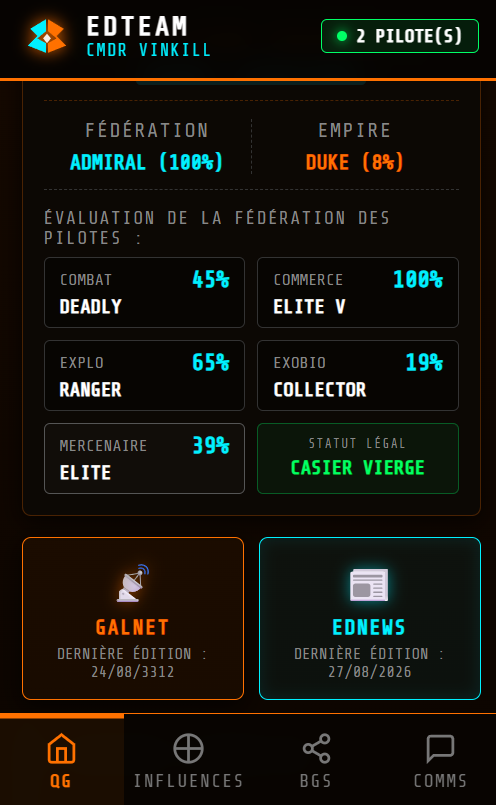
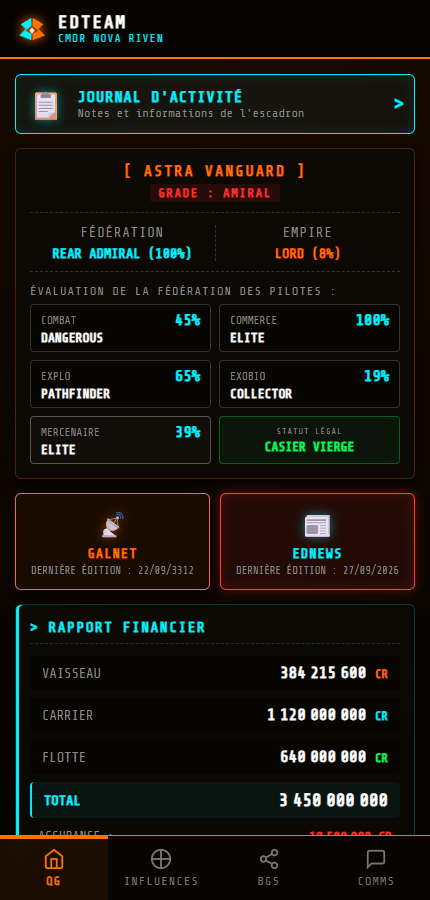
Presentation : modules a jour (Powerplay, Diplomatie/Renseignement, Escadron), retrait du radar de commerce, captures 100% fictives

Changed region(s): [[0.0, 0.0, 1.0, 0.9938], [0.2721, 0.9006, 0.4837, 0.9938]]

diff --git a/presentation.html b/presentation.html
@@ -4,7 +4,7 @@
     <meta charset="UTF-8">
     <meta name="viewport" content="width=device-width, initial-scale=1.0">
     <title>SYS.EDTEAM — Outil communautaire gratuit pour escadrons Elite Dangerous</title>
-    <meta name="description" content="SYS.EDTEAM est l'outil communautaire gratuit pour les escadrons Elite Dangerous : suivi BGS en temps réel, QG de flotte, radar de commerce et assistant COVAS embarqué. Installation en 2 minutes via EDMC.">
+    <meta name="description" content="SYS.EDTEAM est l'outil communautaire gratuit pour les escadrons Elite Dangerous : suivi BGS en temps réel, QG de commandement, Powerplay 2.0, diplomatie et assistant COVAS embarqué. Installation en 2 minutes via EDMC.">
     <link rel="icon" href="icon-192.png" type="image/png">
 
     <!-- Open Graph / Discord & réseaux sociaux -->
@@ -12,12 +12,12 @@
     <meta property="og:type" content="website">
     <meta property="og:site_name" content="SYS.EDTEAM">
     <meta property="og:title" content="SYS.EDTEAM — Outil communautaire pour escadrons Elite Dangerous">
-    <meta property="og:description" content="Suivi BGS en temps réel, QG de flotte, radar de commerce et assistant COVAS embarqué. Gratuit, installation en 2 minutes via EDMC.">
+    <meta property="og:description" content="Suivi BGS en temps réel, QG de commandement, Powerplay 2.0, diplomatie et assistant COVAS embarqué. Gratuit, installation en 2 minutes via EDMC.">
     <meta property="og:image" content="https://VOTRE-DOMAINE-ICI.fr/images/qg.png">
     <meta property="og:url" content="https://VOTRE-DOMAINE-ICI.fr/presentation.html">
     <meta name="twitter:card" content="summary_large_image">
     <meta name="twitter:title" content="SYS.EDTEAM — Outil communautaire pour escadrons Elite Dangerous">
-    <meta name="twitter:description" content="Suivi BGS en temps réel, QG de flotte, radar de commerce et assistant COVAS embarqué. Gratuit, installation en 2 minutes via EDMC.">
+    <meta name="twitter:description" content="Suivi BGS en temps réel, QG de commandement, Powerplay 2.0, diplomatie et assistant COVAS embarqué. Gratuit, installation en 2 minutes via EDMC.">
     <meta name="twitter:image" content="https://VOTRE-DOMAINE-ICI.fr/images/qg.png">
     <link rel="canonical" href="https://VOTRE-DOMAINE-ICI.fr/presentation.html">
 
@@ -28,7 +28,7 @@
         "name": "SYS.EDTEAM",
         "applicationCategory": "UtilitiesApplication",
         "operatingSystem": "Windows (plugin EDMC) + Web",
-        "description": "Outil communautaire gratuit pour escadrons Elite Dangerous : suivi BGS en temps réel, QG de flotte, radar de commerce et assistant COVAS embarqué.",
+        "description": "Outil communautaire gratuit pour escadrons Elite Dangerous : suivi BGS en temps réel, QG de commandement, Powerplay 2.0, diplomatie et assistant COVAS embarqué.",
         "offers": { "@type": "Offer", "price": "0", "priceCurrency": "EUR" },
         "url": "https://VOTRE-DOMAINE-ICI.fr/presentation.html"
     }
@@ -299,8 +299,8 @@
                 <div class="feature-text">
                     <span class="sub-data">// MODULE 01 : SUPERVISION</span>
                     <h3 class="neon-blue">VISION STRATÉGIQUE</h3>
-                    <p>Votre <strong>Quartier Général</strong> centralise toutes vos données navales. Finances en direct, état de votre flotte, logistique de votre Fleet Carrier et avancée de vos rangs militaires.</p>
-                    <p>Tout ce dont un commandant a besoin pour préparer son prochain déploiement, réuni sur un terminal unique et mis à jour instantanément.</p>
+                    <p>Votre <strong>Quartier Général</strong> centralise vos données navales : finances en direct (vaisseau et Fleet Carrier), avancée de vos rangs militaires, actualités Galnet et EDNews de l'escadron.</p>
+                    <p>Le <strong>Journal Tactique</strong> diffuse en direct les directives, les distinctions, les communiqués du réseau et le bilan hebdomadaire. Tout ce dont un commandant a besoin pour préparer son prochain déploiement, réuni sur un terminal unique.</p>
                 </div>
                 <div class="holo-container">
                     <div class="holo-card"><img src="images/qg.png" alt="Quartier Général"></div>
@@ -343,8 +343,8 @@
                             </div>
                             
                             <div style="font-size: 1.1em; margin-bottom: 20px; color: #ddd;">
-                                CIBLE VERROUILLÉE : <strong style="color: #fff; letter-spacing: 1px;">CMDR VINKILL</strong> 
-                                <span style="color: var(--ed-orange); font-size: 0.85em; margin-left: 10px;">[ ICE ]</span>
+                                CIBLE VERROUILLÉE : <strong style="color: #fff; letter-spacing: 1px;">CMDR GRIMLOCK VANE</strong> 
+                                <span style="color: var(--ed-orange); font-size: 0.85em; margin-left: 10px;">[ CRVR ]</span>
                             </div>
                             
                             <div style="padding: 15px; background: rgba(0,0,0,0.5); border: 1px solid #333;">
@@ -353,7 +353,7 @@
                                     <strong style="color: #000; background: var(--ed-red); padding: 2px 8px; border-radius: 2px; box-shadow: 0 0 10px var(--ed-red); animation: pulse-logo 1.5s infinite alternate;">K.O.S (HOSTILE) ⓘ</strong>
                                 </div>
                                 <div style="display: flex; justify-content: space-between; align-items: center; margin-bottom: 15px;">
-                                    <span style="color: #888; font-size: 0.85em;">TRAITÉ ESCADRON <span style="color:var(--ed-orange);">[ ICE ]</span> :</span>
+                                    <span style="color: #888; font-size: 0.85em;">TRAITÉ ESCADRON <span style="color:var(--ed-orange);">[ CRVR ]</span> :</span>
                                     <strong style="color: var(--ed-red);">⚔ CIBLE HOSTILE</strong>
                                 </div>
                                 <div style="display: flex; justify-content: space-between; align-items: center; margin-bottom: 0;">
@@ -385,21 +385,46 @@
 
             <div class="feature-grid">
                 <div class="feature-text">
-                    <span class="sub-data" style="color: var(--ed-orange);">// MODULE 05 : LOGISTIQUE LOURDE</span>
-                    <h3 class="neon-orange">GUERRE ÉCONOMIQUE TOTALE</h3>
-                    <p>Financez l'effort de guerre. Le <strong>Radar de Commerce Furtif</strong> scrute le marché galactique et croise la soute de votre Fleet Carrier avec les bases de données EDSM.</p>
-                    <p>Repérez en un clic les stations les plus lucratives, détectez les filons prédictifs cachés, et inondez le marché noir sans jamais quitter votre cockpit.</p>
+                    <span class="sub-data">// MODULE 05 : POWERPLAY 2.0</span>
+                    <h3 class="neon-blue">COMMANDEMENT GALACTIQUE</h3>
+                    <p>Suivez votre allégeance, vos <strong>mérites du cycle</strong> et votre rang directement depuis le QG, avec le décompte avant le prochain cycle.</p>
+                    <p>Le <strong>Tableau des Partisans</strong> classe les pilotes du réseau alignés sur la même puissance que vous. Cloisonnement oblige : vous ne voyez que votre propre puissance, et uniquement le nom, l'escadron, le rang et les mérites de chacun. Jamais de position, ni de flotte.</p>
                 </div>
                 <div class="holo-container">
-                    <div class="holo-card"><img src="images/commerce.png" alt="Radar de Commerce"></div>
+                    <div class="holo-card"><img src="images/powerplay.png" alt="Tableau des partisans Powerplay"></div>
                 </div>
             </div>
 
             <div class="feature-grid reverse">
                 <div class="feature-text">
-                    <span class="sub-data">// MODULE 06 : CRYPTOGRAPHIE</span>
+                    <span class="sub-data" style="color: var(--ed-orange);">// MODULE 06 : DIPLOMATIE &amp; RENSEIGNEMENT</span>
+                    <h3 class="neon-orange">SAVOIR QUI EST QUI</h3>
+                    <p>Le <strong>Bureau Diplomatique</strong> tient le registre des traités de l'escadron : coalition d'alliés, pactes de non-agression et cibles hostiles.</p>
+                    <p>Le <strong>Bureau du Renseignement Tactique</strong> recense les commandants K.O.S., les suspects à surveiller et les alliés VIP signalés par vos ailiers. Ces fiches alimentent l'assistant COVAS en jeu.</p>
+                </div>
+                <div class="holo-container">
+                    <div class="holo-card"><img src="images/diplomatie.png" alt="Registre des traités et menaces"></div>
+                    <div class="holo-card" style="margin-top: 40px;"><img src="images/renseignement.png" alt="Bureau du renseignement tactique"></div>
+                </div>
+            </div>
+
+            <div class="feature-grid">
+                <div class="feature-text">
+                    <span class="sub-data">// MODULE 07 : ESCADRON</span>
+                    <h3 class="neon-blue">VOTRE ÉQUIPAGE</h3>
+                    <p>La page <strong>Effectifs</strong> présente tous les pilotes de l'escadron avec leur grade (Amiral, Officier BGS, Diplomate) et les <strong>rubans de campagne</strong> gagnés au fil des opérations.</p>
+                    <p>Ouvrez la fiche d'un ailier pour consulter son palmarès.</p>
+                </div>
+                <div class="holo-container">
+                    <div class="holo-card"><img src="images/escadron.png" alt="Effectifs de l'escadron"></div>
+                </div>
+            </div>
+
+            <div class="feature-grid reverse">
+                <div class="feature-text">
+                    <span class="sub-data">// MODULE 08 : CRYPTOGRAPHIE</span>
                     <h3 class="neon-blue">SÉCURITÉ MILITAIRE</h3>
-                    <p>Coordonnez-vous via les <strong>Communications Holographiques</strong> intégrées. Canal privé, canal d'escadron ou fréquences de coalition.</p>
+                    <p>Coordonnez-vous via les <strong>Communications Holographiques</strong> intégrées. Fréquence ouverte à tout le réseau, canal d'escadron ou transmissions privées.</p>
                     <p>Pour prévenir toute interception par l'ennemi, l'intégralité du registre de communication est purgée et détruite automatiquement chaque semaine, le jeudi. Ne laissez aucune trace.</p>
                 </div>
                 <div class="holo-container">
@@ -409,7 +434,7 @@
 
             <div class="feature-grid" style="margin-bottom: 0;">
                 <div class="feature-text">
-                    <span class="sub-data" style="color: var(--ed-orange);">// MODULE 07 : LIAISON DISTANTE</span>
+                    <span class="sub-data" style="color: var(--ed-orange);">// MODULE 09 : LIAISON DISTANTE</span>
                     <h3 class="neon-orange">LE COMMANDEMENT DANS LA POCHE</h3>
                     <p>Pas devant votre PC ? L'Amirauté vous accompagne partout.</p>
                     <p>Connectez-vous depuis votre smartphone pour accéder à l'application <strong>Compagnon Mobile</strong>. Consultez les directives BGS de votre escadron, gardez un œil sur le statut de la flotte, ou communiquez avec vos ailiers en plein vol directement depuis votre téléphone.</p>
